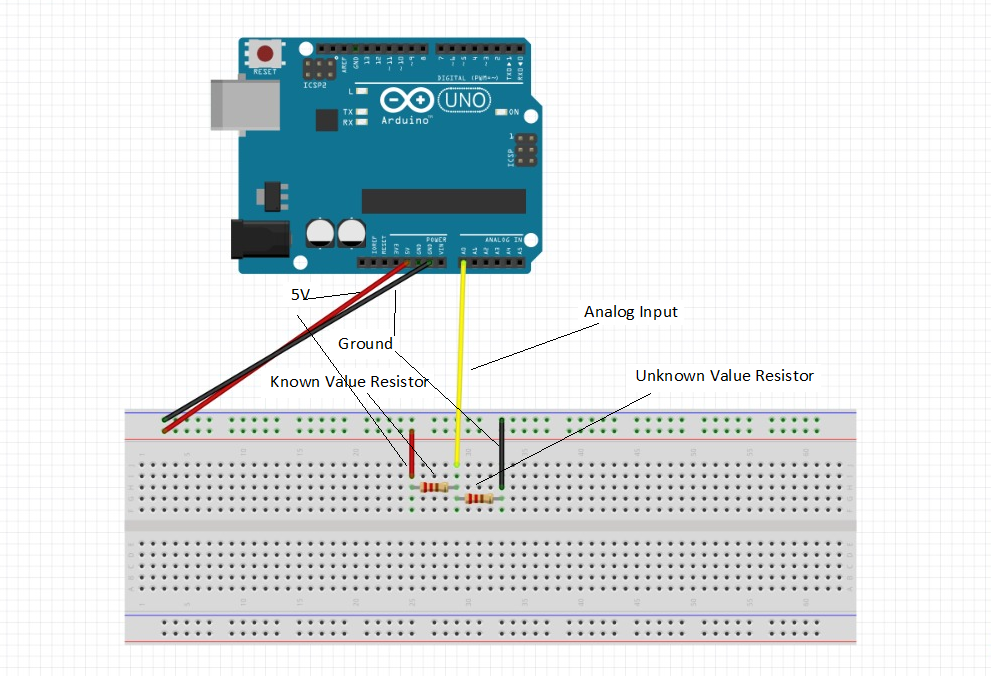
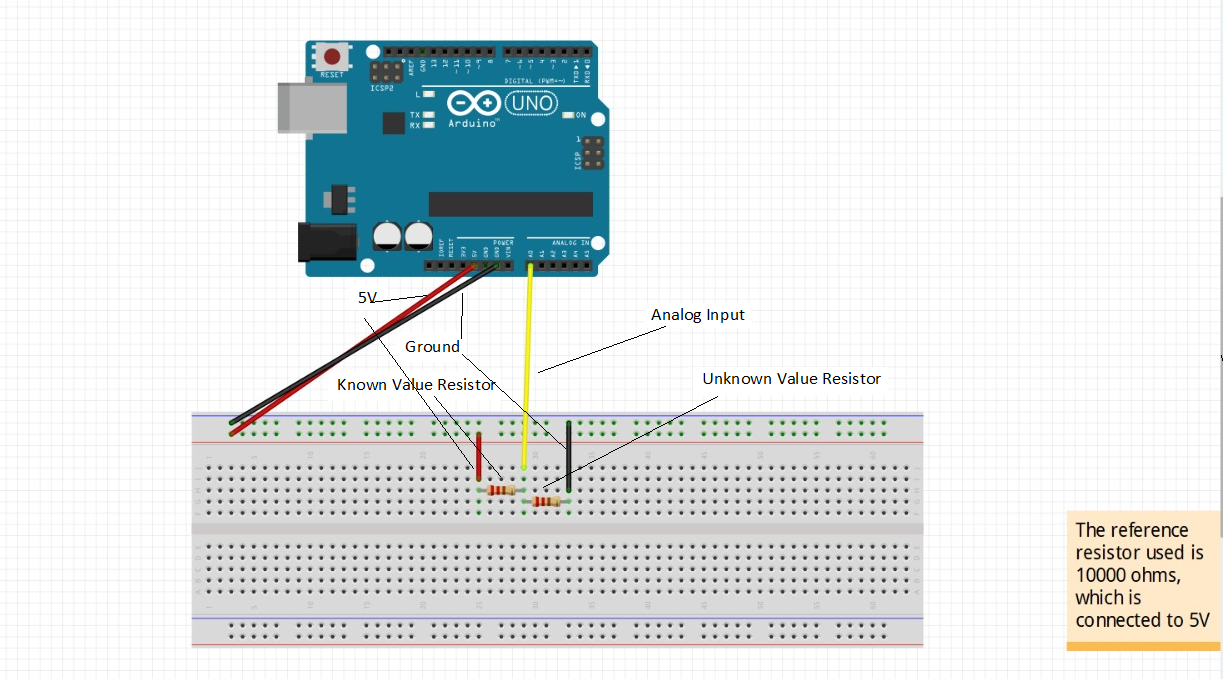
doc: README

diff --git a/README.md b/README.md
@@ -8,7 +8,7 @@ The system is designed to do a parallel resistance check.
 2. Resistor Board
 3. Cables
 4. Unknown Value Resistors
-5. 100k, 1000k ohm Resistors
+5. 1k, 10k, 100k ohm Resistors
 
 ## Design Approach
 
